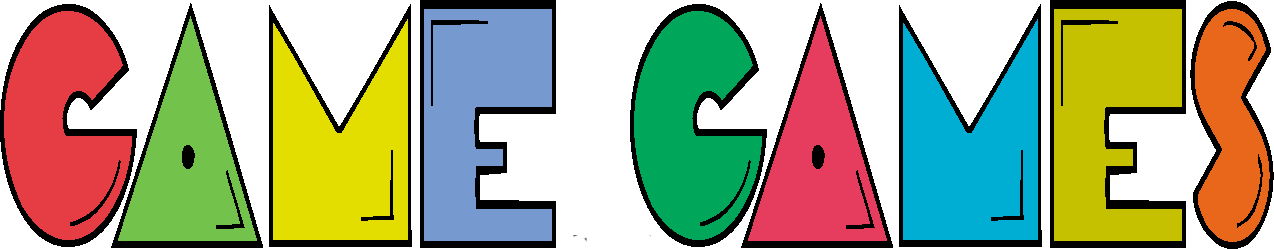
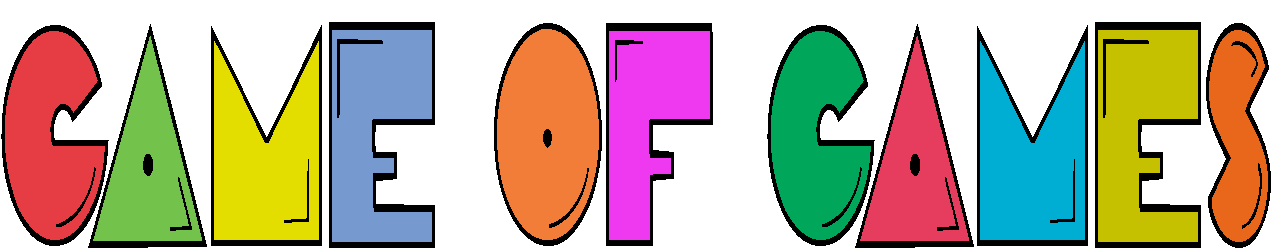
Mejoras esteticas
cambio de nombre de la pagina, colores de fondo e interacciones del menu.

diff --git a/styles/styles01.css b/styles/styles01.css
@@ -5,7 +5,7 @@
 body {
   color: #ffffff;
   font-family: Arial;
-  background: radial-gradient( #041700, #2F0128, #041700, #2F0128);
+  background: radial-gradient(#58d68d, #8e44ad, #58d68d, #8e44ad);
   margin: 0;
   padding: 0;
 }
@@ -21,8 +21,8 @@ body {
 }
 
 .topnav {
-    overflow: hidden;
-    background-color: #000;
+  overflow: hidden;
+  background-color: rgba(0, 0, 0, 0.8);
 }
 .topnav a {
     float: left;
@@ -136,7 +136,7 @@ footer {
     bottom: 0;
     width: 100%;
     height: 200px;
-    background-color: #000;
+    background-color: rgba(0, 0, 0, 0.8);
     font-size: 12px;
 }
 footer div {
@@ -165,6 +165,9 @@ footer a:hover {
 
 /*========================Responsive*/
 @media screen and (max-width: 800px) {
+  body {
+    background: radial-gradient(#58d68d, #8e44ad, #58d68d, #8e44ad);
+  }
   .leftcolumn, .rightcolumn {
         width: 100%;
         padding: 0;
@@ -194,8 +197,18 @@ footer a:hover {
     }
 }
 @media screen and (max-width: 420px) {
+  body {
+    background: radial-gradient(#58d68d, #8e44ad, #58d68d, #8e44ad);
+  }
+  .header img {
+    width: 100%;
+    background-color: rgba(0, 0, 0, 0.8);
+  }
+  .topnav {
+    margin-top: 5px;
+  }
   .topnav a {
-      width: 100%;
+      width: 25%;
     }
   .cardmasven {
       display: none;
@@ -354,7 +367,7 @@ footer a:hover {
 
 .masven {
   text-align: center;
-  background-color: rgba(0, 0, 0, 0.9);
+  background-color: rgba(0, 0, 0, 0.6);
   width: 100%;
 }
 .masven li {
@@ -375,7 +388,7 @@ footer a:hover {
 
 .consol {
   text-align: center;
-  background-color: rgba(0, 0, 0, 0.9);
+  background-color: rgba(0, 0, 0, 0.6);
   border-radius: 50%;
 }
 .consol img {
@@ -402,7 +415,7 @@ footer a:hover {
 }
 
 .listajue {
-  background-color: rgba(0, 0, 0, 0.9);
+  background-color: rgba(0, 0, 0, 0.6);
 }
 .listajue li {
   list-style-type: none;
@@ -430,7 +443,7 @@ footer a:hover {
 .boxes1, .boxes2 {
   width: 100%;
   float: left;
-  background-color: rgba(0, 0, 0, 0.9);
+  background-color: rgba(0, 0, 0, 0.6);
   display: inline-block;
 }
 
@@ -438,7 +451,7 @@ footer a:hover {
   width: 50%;
   height: 100px;
   float: left;
-  background-color: rgba(0, 0, 0, 0.9);
+  background-color: rgba(0, 0, 0, 0.6);
   display: inline-block;
 }
 
@@ -533,7 +546,7 @@ footer a:hover {
   width: 100%;
   color: #ffffff;
   text-align: center;
-  background-color: rgba(0, 0, 0, 0.9);
+  background-color: rgba(0, 0, 0, 0.6);
 }
 
 /*========================a05*/
@@ -544,7 +557,7 @@ footer a:hover {
 }
 
 .comentarios fieldset {
-  background-color: rgba(0, 0, 0, 0.9);
+  background-color: rgba(0, 0, 0, 0.6);
   width:100%;
   text-align: center;
 }
@@ -578,6 +591,6 @@ footer a:hover {
 
 .comprar fieldset {
   text-align: center;
-  background-color: rgba(0, 0, 0, 0.9);
+  background-color: rgba(0, 0, 0, 0.6);
   width:100%;
 }

diff --git a/a04.html b/a04.html
@@ -1,7 +1,7 @@
 <!DOCTYPE html>
 <html>
   <head>
-    <title>Game Games</title>
+    <title>Game Of Games</title>
     <link rel="stylesheet" type="text/css" href="styles/styles01.css">
     <meta name="viewport" content="width=device-width, initial-scale=1.0" />
   </head>
@@ -53,7 +53,7 @@
           <div class="cardreg">
             <h1>REGISTRO</h1>
             <div class="registro">
-              <form action="index06.html">
+              <form action="a06.html">
                 <section>
                   <fieldset>
                       <br>

diff --git a/a02.html b/a02.html
@@ -1,7 +1,7 @@
 <!DOCTYPE html>
 <html>
   <head>
-    <title>Game Games</title>
+    <title>Game Of Games</title>
     <link rel="stylesheet" type="text/css" href="styles/styles01.css">
     <meta name="viewport" content="width=device-width, initial-scale=1.0" />
   </head>

diff --git a/a03.html b/a03.html
@@ -1,7 +1,7 @@
 <!DOCTYPE html>
 <html>
   <head>
-    <title>Game Games</title>
+    <title>Game Of Games</title>
     <link rel="stylesheet" type="text/css" href="styles/styles01.css">
     <meta name="viewport" content="width=device-width, initial-scale=1.0" />
   </head>

diff --git a/a05.html b/a05.html
@@ -1,7 +1,7 @@
 <!DOCTYPE html>
 <html>
   <head>
-    <title>Game Games</title>
+    <title>Game Of Games</title>
     <link rel="stylesheet" type="text/css" href="styles/styles01.css">
     <meta name="viewport" content="width=device-width, initial-scale=1.0" />
   </head>

diff --git a/a06.html b/a06.html
@@ -1,7 +1,7 @@
 <!DOCTYPE html>
 <html>
   <head>
-    <title>Game Games</title>
+    <title>Game Of Games</title>
     <link rel="stylesheet" type="text/css" href="styles/styles01.css">
     <meta name="viewport" content="width=device-width, initial-scale=1.0" />
   </head>

diff --git a/a07.html b/a07.html
@@ -1,7 +1,7 @@
 <!DOCTYPE html>
 <html>
   <head>
-    <title>Game Games</title>
+    <title>Game Of Games</title>
     <link rel="stylesheet" type="text/css" href="styles/styles01.css">
     <meta name="viewport" content="width=device-width, initial-scale=1.0" />
   </head>

diff --git a/index.html b/index.html
@@ -1,7 +1,7 @@
 <!DOCTYPE html>
 <html>
   <head>
-    <title>Game Games</title>
+    <title>Game Of Games</title>
     <link rel="stylesheet" type="text/css" href="styles/styles01.css">
     <meta name="viewport" content="width=device-width, initial-scale=1.0" />
   </head>
